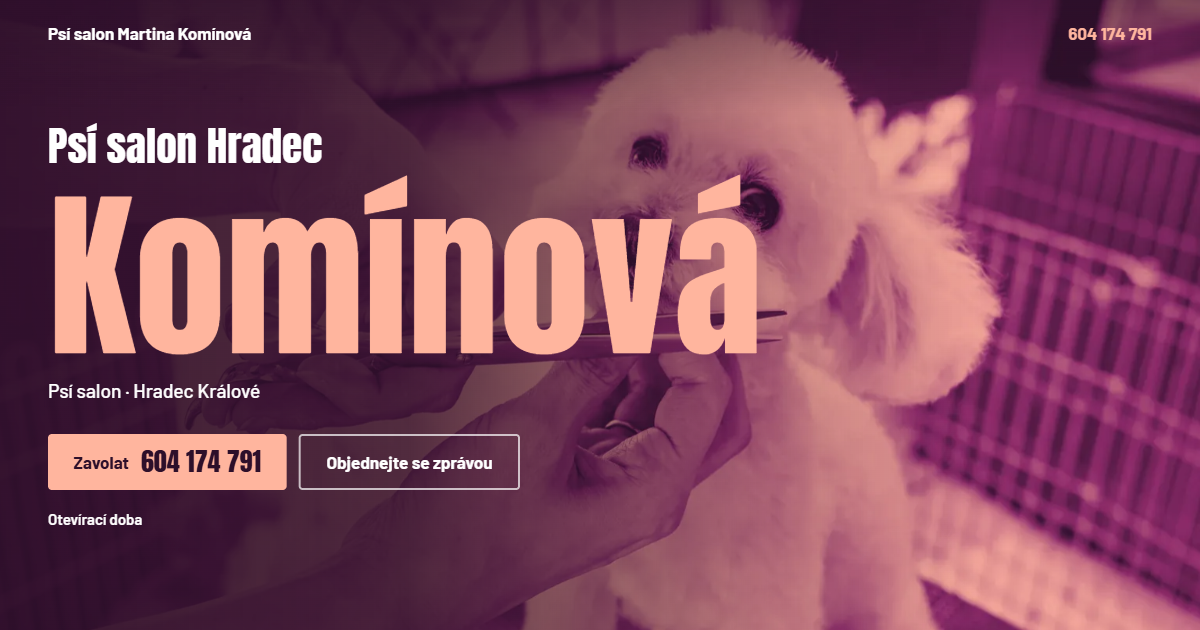
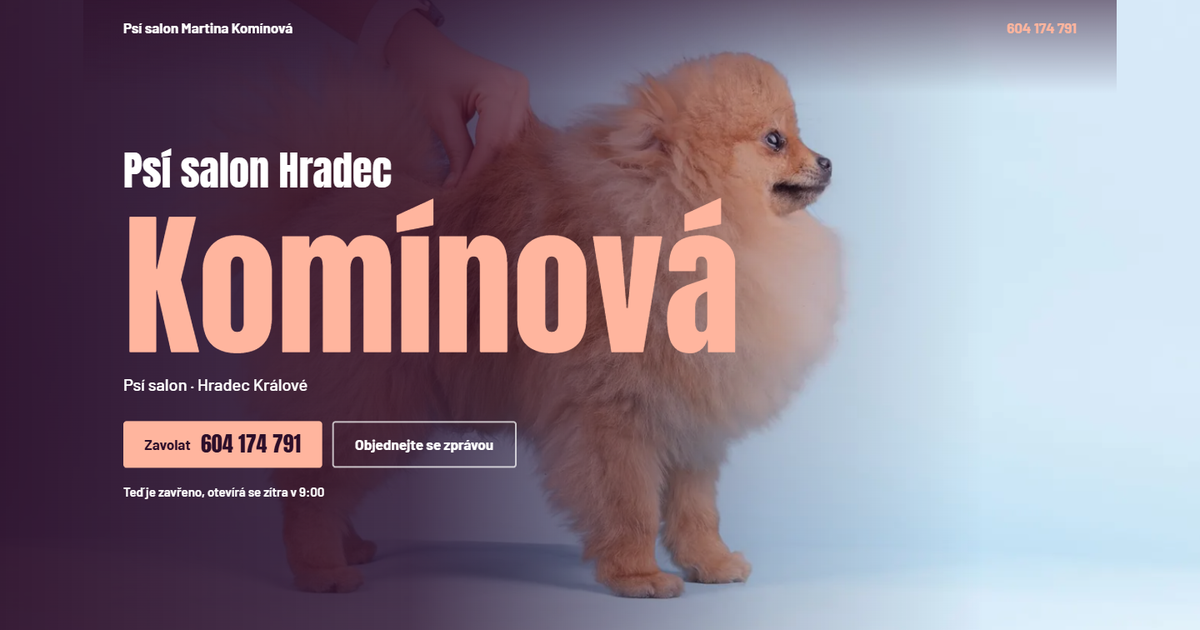
Kominova: uvodni pes v plnych barvach misto tonovaneho pudla (Z 2. 11.: Pes vypada strasidelne)
Claude-Session: https://claude.ai/code/session_01AFFUjrXa58fioWP7aC52C2

diff --git a/psi-salon-martina-kominova/index.html b/psi-salon-martina-kominova/index.html
@@ -294,7 +294,7 @@ h1{line-height:.88}
 <main id="obsah">
 
 <section class="uvod" aria-labelledby="jmeno">
-  <div class="uvod-foto" data-overhang><img src="foto/uvod-1600.webp" srcset="foto/uvod-800.webp 800w, foto/uvod-1600.webp 1600w" sizes="100vw" width="1600" height="1066" alt="Bílý pejsek při stříhání nůžkami" fetchpriority="high" style="object-position:60% 40%"></div>
+  <div class="uvod-foto" data-overhang><img src="foto/uvod-1600.webp" srcset="foto/uvod-800.webp 800w, foto/uvod-1600.webp 1600w" sizes="100vw" width="1600" height="1066" alt="Načesaný pomeranian na modrém pozadí" fetchpriority="high" style="object-position:70% 45%"></div>
   <div class="frame hlava">
     <a class="hlava-jmeno" href="#obsah">Psí salon Martina Komínová</a>
     <a class="hlava-tel" href="tel:+420604174791">604&nbsp;174&nbsp;791</a>
@@ -319,7 +319,7 @@ h1{line-height:.88}
 </section>
 
 <section class="split" aria-labelledby="co-h">
-  <div class="split-foto"><img src="foto/02-rucnik-1600.webp" srcset="foto/02-rucnik-800.webp 800w, foto/02-rucnik-1600.webp 1600w" sizes="(min-width:48rem) 50vw, 100vw" width="1600" height="1066" alt="Pomeranian zabalený v ručníku po koupeli" loading="lazy" decoding="async" style="object-position:50% 50%"></div>
+  <div class="split-foto"><img src="foto/01-strihani-1600.webp" srcset="foto/01-strihani-800.webp 800w, foto/01-strihani-1600.webp 1600w" sizes="(min-width:48rem) 50vw, 100vw" width="1600" height="1066" alt="Bílý pejsek při stříhání nůžkami" loading="lazy" decoding="async" style="object-position:60% 40%"></div>
   <div class="split-text">
     <div>
       <h2 id="co-h">Co pro Vás uděláme</h2>
@@ -329,8 +329,8 @@ h1{line-height:.88}
 </section>
 
 <ul class="galerie g4" aria-label="Fotky">
-  <li><img src="foto/03-koupani-1600.webp" srcset="foto/03-koupani-800.webp 800w, foto/03-koupani-1600.webp 1600w" sizes="(min-width:48rem) 50vw, 100vw" width="1600" height="1066" alt="Mokrý pejsek při koupání" loading="lazy" decoding="async" style="object-position:50% 50%"></li>
-  <li><img src="foto/04-pomeranian-1600.webp" srcset="foto/04-pomeranian-800.webp 800w, foto/04-pomeranian-1600.webp 1600w" sizes="(min-width:48rem) 25vw, 50vw" width="1600" height="1066" alt="Načesaný pomeranian na modrém pozadí" loading="lazy" decoding="async" style="object-position:50% 50%"></li>
+  <li><img src="foto/02-rucnik-1600.webp" srcset="foto/02-rucnik-800.webp 800w, foto/02-rucnik-1600.webp 1600w" sizes="(min-width:48rem) 50vw, 100vw" width="1600" height="1066" alt="Pomeranian zabalený v ručníku po koupeli" loading="lazy" decoding="async" style="object-position:50% 50%"></li>
+  <li><img src="foto/03-koupani-1600.webp" srcset="foto/03-koupani-800.webp 800w, foto/03-koupani-1600.webp 1600w" sizes="(min-width:48rem) 25vw, 50vw" width="1600" height="1066" alt="Mokrý pejsek při koupání" loading="lazy" decoding="async" style="object-position:50% 50%"></li>
   <li><img src="foto/05-jorksir-1600.webp" srcset="foto/05-jorksir-800.webp 800w, foto/05-jorksir-1600.webp 1600w" sizes="(min-width:48rem) 25vw, 50vw" width="1600" height="1066" alt="Jorkšír po koupeli" loading="lazy" decoding="async" style="object-position:50% 50%"></li>
   <li><img src="foto/06-cesani-1600.webp" srcset="foto/06-cesani-800.webp 800w, foto/06-cesani-1600.webp 1600w" sizes="(min-width:48rem) 25vw, 50vw" width="1600" height="1066" alt="Česání jorkšíra hřebenem" loading="lazy" decoding="async" style="object-position:50% 50%"></li>
 </ul>
